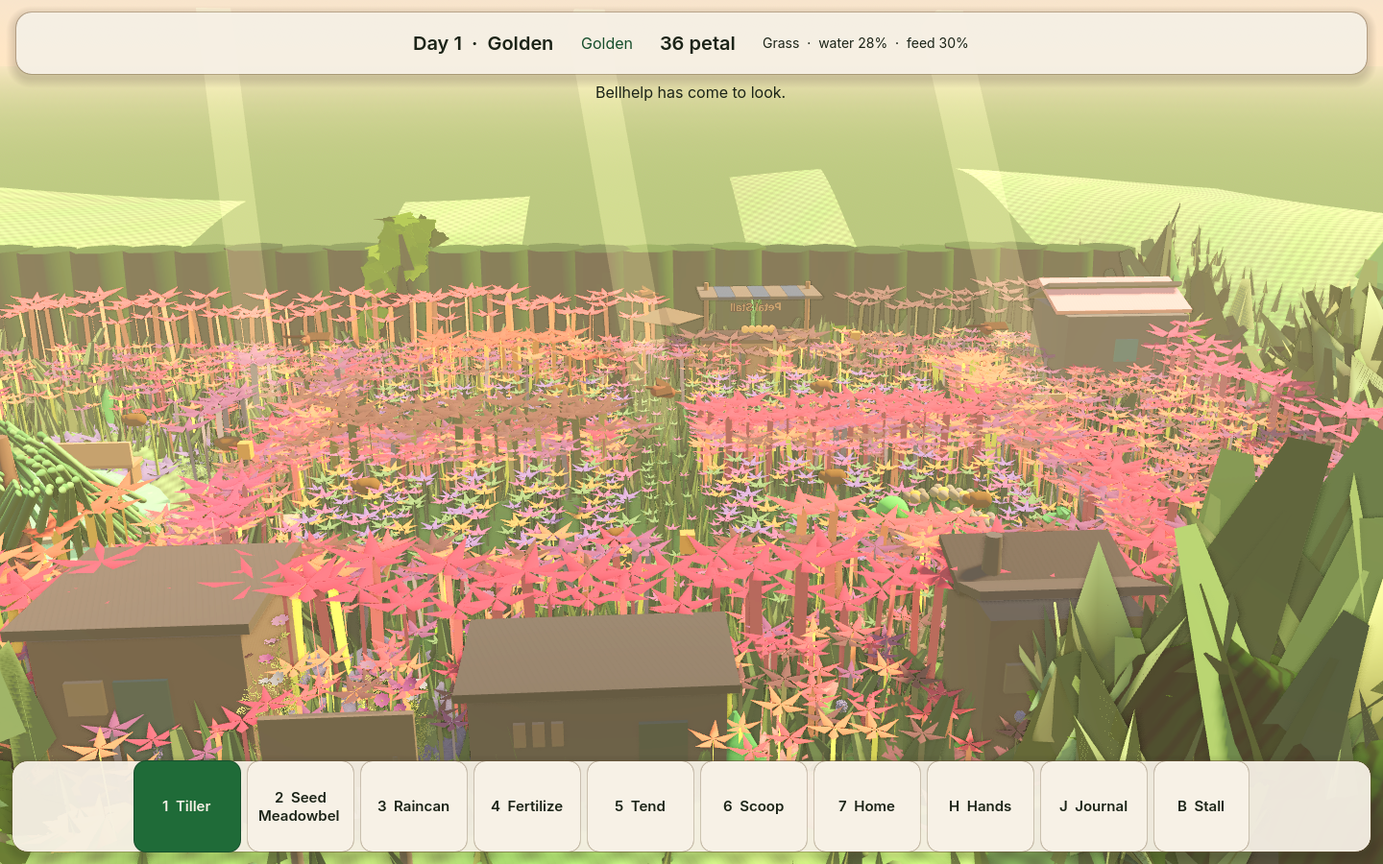
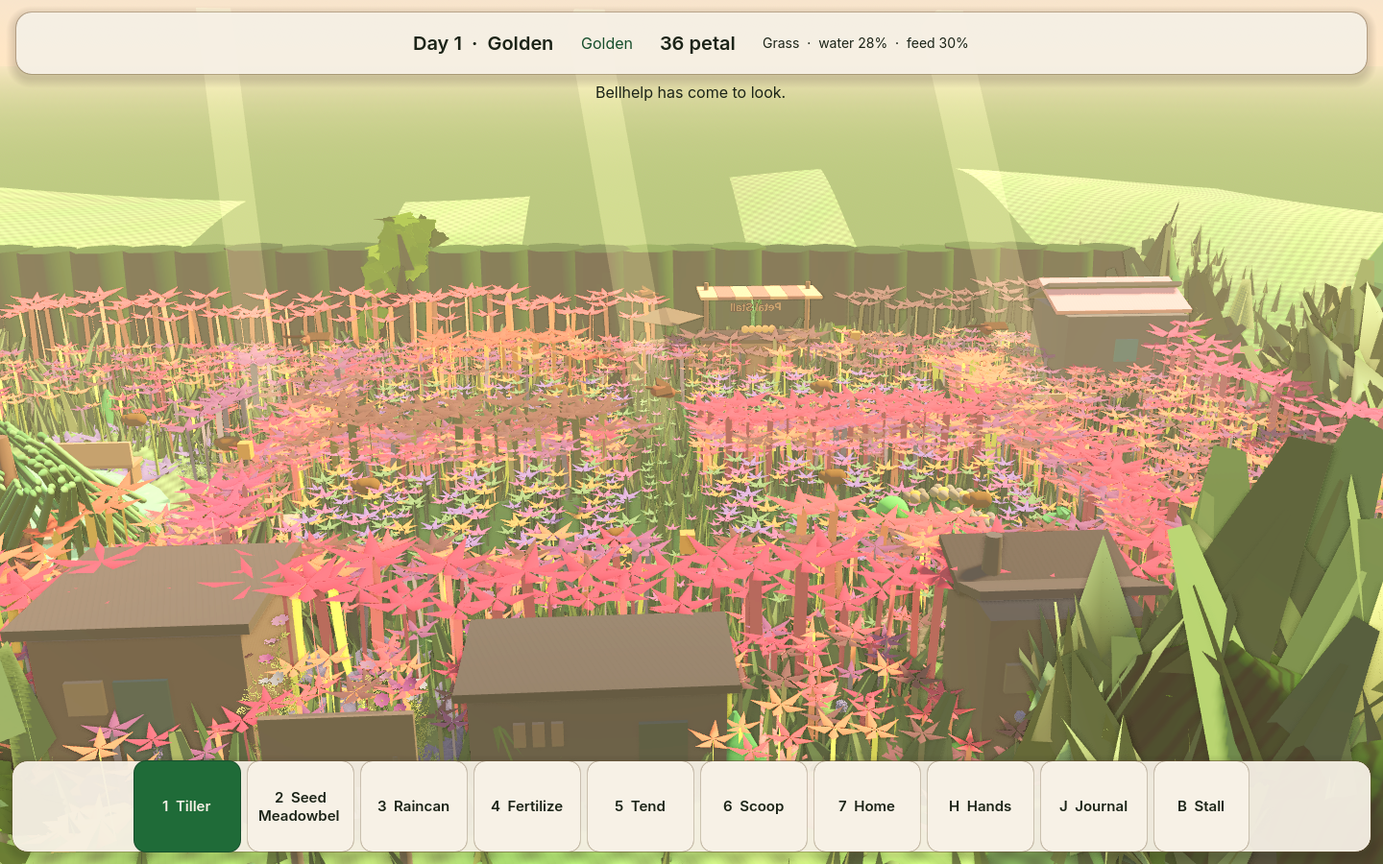
The stall awning warms while the counter is open.
It cools after the stall shuts. Hailo health answered and
POST /v1/decide returned 502, so this was not a choice
from that service.

diff --git a/docs/VISUAL_GAP.md b/docs/VISUAL_GAP.md
@@ -2,11 +2,11 @@
 
 Compared on 2026-09-23. The scene `tools/run.sh` launches is Hedge Hollow. Shots: `docs/screenshots/wave1_overview.png`, `wave1_jelly.png`, `wave1_lumen.png`. Targets: `docs/reference/petalwild_target_garden_01.png` and `petalwild_target_garden_02.png`.
 
-The north backdrop trees are shorter than the hedge. Crest leaf cards are 0.4 of their old size, and the far wall keeps one 2.5 m tuft in four. A row of dark shrubs stands just behind that wall. The east end is taller so its lip meets the hedge line. Light-green pixels in the upper opening band (screen y 265–320, x 40–1400) fell from 53% to 24%, and in the lower band (y 290–360, x 80–1200) from 36% to 13%. On the east lip (y 252–272, x 40–300) mean luminance fell from 200 to 162. The hill (y 200–245) did not change. The stall still sits in front of the middle of the wall. The bright blue band in that opening was the awning cloth, not a hole in the hedge. That stripe is darker now and reads about (171, 171, 173). A sky-blue detector on the overview (blue above 200, ahead of red by 20 and of green by 10) is 0. The shrub row behind the wall was lifting to pale green under the sun. The same light-green check (green ahead of red by 15 and of blue by 20, green above 140) now covers 1.2% of the upper band, down from 3.5% on the previous shot. The crest leaf cards and the far trees were the pale pixels in the side openings. The upper hill (screen y 200–230) stayed at about (213, 224, 148). The ground sky below the horizon is green, so a hole in the hill reads as olive rather than pale sky. Bellhelp’s close-up shows five pointed lobes, five gap tips past them, a wide short rank inside that ring, a darker band, and a wider flared whorl. The dark throat stays. The wide skirt of spheres is gone. The bench and planter use a dark multiply on the prop texture, and bright plant-atlas texels are capped. The three lantern glasses are amber instead of pure white. The pink disk by the south-west rail, the untilled grass-plot tops, the meadowbell petals, the mauve bed, the resident hands, the light flagstones, the path dirt, and the loose stones are darkened so they stay under the sun. Eight bees drift over the beds. Four birds cross the garden by day and perch at dusk and in the rain. A planted meadowbell is three bells on a leaf pad, and every crop sits in a ring of eight leaves. Pure white on this overview is 0. On the previous shot the upper-band light-green check was 1.17% and the hill mean was (212.9, 224.4, 147.6). The hedge tea house stands in the lower left of the home shot. On that shot the same check was 1.30% (969 pixels) and the hill mean was (212.0, 223.6, 146.4). The research hut stands in the lower middle of that shot, where the check was 1.17% (874 pixels) and the hill mean was (212.0, 223.6, 146.4). The media foundry stands in the lower middle of that shot, where the check was 1.15% (862 pixels) and the hill mean was (212.0, 223.6, 146.4). The town hall board now stands in the south gate. On the town-hall shot the check was 1.29% (968 pixels) and the hill mean was (212.0, 223.6, 146.4). On the six-bloom shot the check was 1.54% (1155 pixels) and the hill mean was (212.0, 223.7, 146.5). Empty untilled beds now carry nine dark leaf discs and eight short flowers, and a tilled or planted bed clears them. On the leaf-cover shot the check was 1.60% (1197 pixels) and the hill mean was (212.1, 223.8, 146.5). Neighboring empty cells now share an overlapping dark lid, so the brown seam inside a plot closes. On the joined-lid shot the check was 1.61% (1208 pixels) and the hill mean was (212.1, 223.8, 146.5). A planted cell now keeps that dark lid, so the crop sits in the meadow instead of an inset square. On the planted-lid shot the check was 1.54% (1149 pixels) and the hill mean was (212.1, 223.7, 146.5). The north and south plots now meet across the lawn, and the north-south path stays open. On the bridge shot the check was 1.57% (1176 pixels) and the hill mean was (212.2, 223.8, 146.6). Flowers now sit on both lips of the north-south path, and the path center stays open. On the path-lip shot the check was 1.61% (1204 pixels) and the hill mean was (212.1, 223.8, 146.5). Flowers now spill past the outer edges of the four beds, and the path-center pixels are unchanged. On the bed-edge shot the check was 1.45% (1083 pixels) and the hill mean was (212.2, 223.9, 146.6). The north-south track is narrower, its shoulders are meadow, and the center stays stone. On the narrow-track shot the check was 1.46% (1091 pixels) and the hill mean was (212.2, 223.9, 146.6). The south and north tracks are narrower too, with flowers on their lips. On the track-lip shot the check was 1.45% (1083 pixels) and the hill mean was (212.2, 223.9, 146.6). The wooden frames and the inner hedge around the four beds are gone. The parish hedge stays. On the open-bed shot the check was 1.26% (940 pixels) and the hill mean was (212.0, 223.6, 146.4). On the stepping-stone shot the check was 1.52% (1136 pixels) and the hill mean was (212.0, 223.7, 146.5). On the smaller-stone shot the check was 1.16% (870 pixels) and the hill mean was (212.0, 223.6, 146.4). On the open-stone shot the check was 1.28% (955 pixels) and the hill mean was (212.2, 223.9, 146.6). On the flower-track shot the check was 1.53% (1148 pixels) and the hill mean was (212.2, 223.9, 146.6). On the track-grass shot the check was 1.21% (903 pixels) and the hill mean was (212.0, 223.6, 146.4). On the worn-walk shot the ledger wrote 1.56% (1166 pixels) and the hill mean (212.1, 223.7, 146.5). The same light-green check on that file is 3.72% (2780 of 74800). Empty meadow cells carry a fuller clump: larger leaves, larger blooms, and four more flowers in the gaps. Tilling one empty cell clears twenty-one instances. On that shot the check was 3.70% (2766 of 74800) and the hill mean was (212.1, 223.7, 146.5). A planted cell now keeps eight flowers on its rim, and the stem stays clear. Opening that cell into meadow adds the other thirteen. The worn centers stay open. On that shot the check was 3.55% (2657 of 74800) and the hill mean was (212.0, 223.7, 146.4). On that shot the check was 3.80% (2841 of 74800) and the hill mean was (212.1, 223.7, 146.5). On that shot the check was 3.82% (2855 of 74800) and the hill mean was (212.1, 223.8, 146.5). The north apron above the beds carries a tighter bloom grid. The worn walks, the stall spur, the rooms, and the pond stay open. On that shot the check was 3.80% (2844). Against the file before it the band gained 82 pixels and lost 93. The hill mean was (212.1, 223.8, 146.5). 6.62% of the pixels below the horizon changed, and 0.49% above y 320. The apron band (screen y 350–400) changed 17%. The bridge strips between the north and south beds carry a tighter bloom grid. The worn center between them stays open. On that shot the check was 3.78% (2831). Against the file before it the band gained 41 pixels and lost 54. The hill mean was (212.2, 223.8, 146.6). 4.59% of the pixels below the horizon changed, and 0.27% above y 320. The bridge band (screen y 486–525, x 343–1037) changed 6%. The lawn just inside the west hedge now carries a tighter bloom grid. The hedge wall stays. On this shot the check is 3.81% (2849). Against that file the band gained 66 pixels and lost 48. The hill mean is (212.1, 223.8, 146.5). 4.73% of the pixels below the horizon changed, and 0.32% above y 320. The west band (screen y 450–700, x 1260–1440) changed 9%, and rose pixels there went from 2147 to 2749. After dusk the three path lanterns brighten. On the night shot the pond lamp moved from (199, 157, 108) to (254, 197, 114). The afternoon shot stays as it is. The north apron continues east of the beds. The worn walks stay open. On this shot the check is 3.75% (2802 of 74800). Against that file the band gained 163 pixels and lost 210. The hill mean is (212.2, 223.9, 146.6). 28.18% of the pixels below the horizon changed, and 1.78% above y 320. The east apron band (screen y 370–450, x 40–560) changed 43.6%, and rose pixels there went from 27759 to 28986. The south lawn in front of the rooms carries a tighter bloom grid. The worn walks and the south hedge stay open. On this shot the check is 3.65% (2733 of 74800). Against that file the band gained 165 pixels and lost 234. The hill mean is (212.2, 223.9, 146.6). 29.84% of the pixels below the horizon changed, and 1.77% above y 320. The south band (screen y 740–860, x 100–900) changed 21.6%, and rose pixels there went from 8225 to 11752. Pure white is 0. The sky-blue detector is 0. The stall lamp brightens while the stall is open and dims after it shuts. The afternoon home shot stays as it is. On the stall close-up the frame mean moved from (135.4, 118.1, 81.9) to (144.7, 121.5, 86.0). After dusk the tea house window, the hut window, and the shed's south pane glow. On the night shot those panes read (254, 196, 111), (251, 190, 104), and (245, 201, 143). By day the tea and hut windows stay dark. The shed's south pane is in the afternoon shot. On this shot the check is 3.75% (2802 of 74800). Against that file the band gained and lost within the sway of the hedge. The hill mean is (212.2, 223.9, 146.6). Pure white is 0. The sky-blue detector is 0.
+The north backdrop trees are shorter than the hedge. Crest leaf cards are 0.4 of their old size, and the far wall keeps one 2.5 m tuft in four. A row of dark shrubs stands just behind that wall. The east end is taller so its lip meets the hedge line. Light-green pixels in the upper opening band (screen y 265–320, x 40–1400) fell from 53% to 24%, and in the lower band (y 290–360, x 80–1200) from 36% to 13%. On the east lip (y 252–272, x 40–300) mean luminance fell from 200 to 162. The hill (y 200–245) did not change. The stall still sits in front of the middle of the wall. The bright blue band in that opening was the awning cloth, not a hole in the hedge. That stripe is darker now and reads about (171, 171, 173). A sky-blue detector on the overview (blue above 200, ahead of red by 20 and of green by 10) is 0. The shrub row behind the wall was lifting to pale green under the sun. The same light-green check (green ahead of red by 15 and of blue by 20, green above 140) now covers 1.2% of the upper band, down from 3.5% on the previous shot. The crest leaf cards and the far trees were the pale pixels in the side openings. The upper hill (screen y 200–230) stayed at about (213, 224, 148). The ground sky below the horizon is green, so a hole in the hill reads as olive rather than pale sky. Bellhelp’s close-up shows five pointed lobes, five gap tips past them, a wide short rank inside that ring, a darker band, and a wider flared whorl. The dark throat stays. The wide skirt of spheres is gone. The bench and planter use a dark multiply on the prop texture, and bright plant-atlas texels are capped. The three lantern glasses are amber instead of pure white. The pink disk by the south-west rail, the untilled grass-plot tops, the meadowbell petals, the mauve bed, the resident hands, the light flagstones, the path dirt, and the loose stones are darkened so they stay under the sun. Eight bees drift over the beds. Four birds cross the garden by day and perch at dusk and in the rain. A planted meadowbell is three bells on a leaf pad, and every crop sits in a ring of eight leaves. Pure white on this overview is 0. On the previous shot the upper-band light-green check was 1.17% and the hill mean was (212.9, 224.4, 147.6). The hedge tea house stands in the lower left of the home shot. On that shot the same check was 1.30% (969 pixels) and the hill mean was (212.0, 223.6, 146.4). The research hut stands in the lower middle of that shot, where the check was 1.17% (874 pixels) and the hill mean was (212.0, 223.6, 146.4). The media foundry stands in the lower middle of that shot, where the check was 1.15% (862 pixels) and the hill mean was (212.0, 223.6, 146.4). The town hall board now stands in the south gate. On the town-hall shot the check was 1.29% (968 pixels) and the hill mean was (212.0, 223.6, 146.4). On the six-bloom shot the check was 1.54% (1155 pixels) and the hill mean was (212.0, 223.7, 146.5). Empty untilled beds now carry nine dark leaf discs and eight short flowers, and a tilled or planted bed clears them. On the leaf-cover shot the check was 1.60% (1197 pixels) and the hill mean was (212.1, 223.8, 146.5). Neighboring empty cells now share an overlapping dark lid, so the brown seam inside a plot closes. On the joined-lid shot the check was 1.61% (1208 pixels) and the hill mean was (212.1, 223.8, 146.5). A planted cell now keeps that dark lid, so the crop sits in the meadow instead of an inset square. On the planted-lid shot the check was 1.54% (1149 pixels) and the hill mean was (212.1, 223.7, 146.5). The north and south plots now meet across the lawn, and the north-south path stays open. On the bridge shot the check was 1.57% (1176 pixels) and the hill mean was (212.2, 223.8, 146.6). Flowers now sit on both lips of the north-south path, and the path center stays open. On the path-lip shot the check was 1.61% (1204 pixels) and the hill mean was (212.1, 223.8, 146.5). Flowers now spill past the outer edges of the four beds, and the path-center pixels are unchanged. On the bed-edge shot the check was 1.45% (1083 pixels) and the hill mean was (212.2, 223.9, 146.6). The north-south track is narrower, its shoulders are meadow, and the center stays stone. On the narrow-track shot the check was 1.46% (1091 pixels) and the hill mean was (212.2, 223.9, 146.6). The south and north tracks are narrower too, with flowers on their lips. On the track-lip shot the check was 1.45% (1083 pixels) and the hill mean was (212.2, 223.9, 146.6). The wooden frames and the inner hedge around the four beds are gone. The parish hedge stays. On the open-bed shot the check was 1.26% (940 pixels) and the hill mean was (212.0, 223.6, 146.4). On the stepping-stone shot the check was 1.52% (1136 pixels) and the hill mean was (212.0, 223.7, 146.5). On the smaller-stone shot the check was 1.16% (870 pixels) and the hill mean was (212.0, 223.6, 146.4). On the open-stone shot the check was 1.28% (955 pixels) and the hill mean was (212.2, 223.9, 146.6). On the flower-track shot the check was 1.53% (1148 pixels) and the hill mean was (212.2, 223.9, 146.6). On the track-grass shot the check was 1.21% (903 pixels) and the hill mean was (212.0, 223.6, 146.4). On the worn-walk shot the ledger wrote 1.56% (1166 pixels) and the hill mean (212.1, 223.7, 146.5). The same light-green check on that file is 3.72% (2780 of 74800). Empty meadow cells carry a fuller clump: larger leaves, larger blooms, and four more flowers in the gaps. Tilling one empty cell clears twenty-one instances. On that shot the check was 3.70% (2766 of 74800) and the hill mean was (212.1, 223.7, 146.5). A planted cell now keeps eight flowers on its rim, and the stem stays clear. Opening that cell into meadow adds the other thirteen. The worn centers stay open. On that shot the check was 3.55% (2657 of 74800) and the hill mean was (212.0, 223.7, 146.4). On that shot the check was 3.80% (2841 of 74800) and the hill mean was (212.1, 223.7, 146.5). On that shot the check was 3.82% (2855 of 74800) and the hill mean was (212.1, 223.8, 146.5). The north apron above the beds carries a tighter bloom grid. The worn walks, the stall spur, the rooms, and the pond stay open. On that shot the check was 3.80% (2844). Against the file before it the band gained 82 pixels and lost 93. The hill mean was (212.1, 223.8, 146.5). 6.62% of the pixels below the horizon changed, and 0.49% above y 320. The apron band (screen y 350–400) changed 17%. The bridge strips between the north and south beds carry a tighter bloom grid. The worn center between them stays open. On that shot the check was 3.78% (2831). Against the file before it the band gained 41 pixels and lost 54. The hill mean was (212.2, 223.8, 146.6). 4.59% of the pixels below the horizon changed, and 0.27% above y 320. The bridge band (screen y 486–525, x 343–1037) changed 6%. The lawn just inside the west hedge now carries a tighter bloom grid. The hedge wall stays. On this shot the check is 3.81% (2849). Against that file the band gained 66 pixels and lost 48. The hill mean is (212.1, 223.8, 146.5). 4.73% of the pixels below the horizon changed, and 0.32% above y 320. The west band (screen y 450–700, x 1260–1440) changed 9%, and rose pixels there went from 2147 to 2749. After dusk the three path lanterns brighten. On the night shot the pond lamp moved from (199, 157, 108) to (254, 197, 114). The afternoon shot stays as it is. The north apron continues east of the beds. The worn walks stay open. On this shot the check is 3.75% (2802 of 74800). Against that file the band gained 163 pixels and lost 210. The hill mean is (212.2, 223.9, 146.6). 28.18% of the pixels below the horizon changed, and 1.78% above y 320. The east apron band (screen y 370–450, x 40–560) changed 43.6%, and rose pixels there went from 27759 to 28986. The south lawn in front of the rooms carries a tighter bloom grid. The worn walks and the south hedge stay open. On this shot the check is 3.65% (2733 of 74800). Against that file the band gained 165 pixels and lost 234. The hill mean is (212.2, 223.9, 146.6). 29.84% of the pixels below the horizon changed, and 1.77% above y 320. The south band (screen y 740–860, x 100–900) changed 21.6%, and rose pixels there went from 8225 to 11752. Pure white is 0. The sky-blue detector is 0. The stall lamp brightens while the stall is open and dims after it shuts. The afternoon home shot stays as it is. On the stall close-up the frame mean moved from (135.4, 118.1, 81.9) to (144.7, 121.5, 86.0). After dusk the tea house window, the hut window, and the shed's south pane glow. On the night shot those panes read (254, 196, 111), (251, 190, 104), and (245, 201, 143). By day the tea and hut windows stay dark. The shed's south pane is in the afternoon shot. The stall awning warms while the stall is open and cools after it shuts. On the afternoon shot a stripe moved from (163, 163, 159) to (254, 193, 154) at screen (819, 306). The night shot stays as it is. On this shot the check is 3.77% (2823 of 74800). Against that file the band gained and lost within the sway of the hedge. The hill mean is (212.2, 223.8, 146.6). Pure white is 0. The sky-blue detector is 0.
 
 ## Three largest gaps
 
-1. **Hedge skyline.** The crest cards and the far trees are darker. On this shot 3.75% of the upper band is still light-green (2802 of 74800 pixels). The previous file, same check, is 2733. Most of that mask sits at screen x 1240–1400 (2323 of 2802). The hill mean is (212.2, 223.9, 146.6). The stall still shows through the middle. The south rooms, the gate board, and the bed blooms sit lower and do not cover that edge. PETAL-05.
+1. **Hedge skyline.** The crest cards and the far trees are darker. On this shot 3.77% of the upper band is still light-green (2823 of 74800 pixels). The previous file, same check, is 2802. Most of that mask sits at screen x 1240–1400 (2335 of 2823). The hill mean is (212.2, 223.8, 146.6). The stall still shows through the middle. The south rooms, the gate board, and the bed blooms sit lower and do not cover that edge. PETAL-05.
 
 2. **Bellhelp.** Ten tips, a short rank inside them, a darker band, and a wider skirt. The dark throat is still the center. PETAL-03.
 

diff --git a/docs/PETALWILD_MASTER_STATE.md b/docs/PETALWILD_MASTER_STATE.md
@@ -68,10 +68,10 @@ The north backdrop trees are shorter than the hedge. Crest leaf cards are 0.4 sc
 
 Three largest gaps still open, against `docs/reference/petalwild_target_garden_01.png` and `petalwild_target_garden_02.png`:
 
-1. **Hedge skyline.** The crest cards and the far trees are darker. On this shot 3.75% of the upper band is still light-green (2802 of 74800 pixels). The previous file, same check, is 2733. Most of that mask sits at screen x 1240–1400 (2323 of 2802). The hill mean is (212.2, 223.9, 146.6). The stall still shows through the middle. The south rooms, the gate board, and the bed blooms sit lower and do not cover that edge. PETAL-05.
+1. **Hedge skyline.** The crest cards and the far trees are darker. On this shot 3.77% of the upper band is still light-green (2823 of 74800 pixels). The previous file, same check, is 2802. Most of that mask sits at screen x 1240–1400 (2335 of 2823). The hill mean is (212.2, 223.8, 146.6). The stall still shows through the middle. The south rooms, the gate board, and the bed blooms sit lower and do not cover that edge. PETAL-05.
 2. **Bellhelp.** Ten tips, a short rank inside them, a darker band, and a wider skirt. The dark throat is still the center. PETAL-03.
 3. **Plot grid.** The wooden frames and the inner hedge around the four beds are gone. The parish hedge stays. Flowers spill past the outer edges of the beds and still line the north-south path. The north-south, south, and north bed tracks no longer carry stones. Meadow, flowers, and the same lawn grass cover them. The stall spur and the pond path stay worn, and flowers line both edges. Empty cells carry a fuller clump. A planted cell keeps eight flowers on its rim, and the stem stays clear. The parish lawn carries the meadow up to the bed edge. The west margin and the north apron carry a tighter bloom grid. The bridge strips between the beds carry a tighter bloom grid. The lawn just inside the west hedge carries a tighter bloom grid. The north apron continues east of the beds. The south lawn in front of the rooms carries a tighter bloom grid. The hedge wall stays. The worn centers, the stall spur, and the center between the strips stay open. The rooms and the pond stay clear. The bridge boxes stay. The plates are one continuous planting. Overview pixels at pure white are 0. The brightest pixel on this overview is (251, 255, 217) at screen (161, 512). PETAL-06.
 
 ## Next integration
 
-Keep this build playable. The next pass stays inside `scenes/main.tscn` (Hedge Hollow). The creature chain through Gushorn can happen in this garden, and two resident Bellhelps raise the species to breeding. The later resident walks to the first, the journal says a pair is in the parish, a breeding pair leaves one young beside them, a thin meadow does not send that young to the hedge while the pair remains, a reload keeps that young, and off-screen they share the first resident's home kit. A resident who is petted until they trust your hands is bonded. By day they walk to the gardener, the journal keeps that trust beside the pair, and a reload keeps the bond. By day a resident on screen walks to a ripe plant they came for and bites when they reach it. That plant has to grow back. Off screen they bite without crossing the garden. A reload keeps them headed for the fruit. A dry crop droops and loses height until the bed is watered. A tired crop stands shorter until the bed is fed, and a dry one still droops. Left dry for six hours, it is gone from the bed, and a reload keeps that clock. A living crop tires its bed. By day Bram feeds the one under that crop's fertility line, thirst still comes first, the pouch is not spent, and a reload keeps that walk. He leaves a tired bramble when a settled Grapling is resting on it and feeds the next tired bed. If that cane is the only one, he leaves it. The bed readout says when a crop needs water, when it needs feed, when fruit is returning, when a cane is kept, and when the bells are filling, and when a reed is kept. A dry bed says thirst before the cane. A reload keeps that line. A visitor on the cane does not stop him. A visitor whose plants are gone walks to the gate, the journal says they are heading for the hedge, Nessa writes the departure into the parish book, and a reload keeps that walk. When two visitors leave on the same tick she writes both names. If one turns back, that name leaves the page and she still writes the other. If they all turn back, the page stays blank. A reload keeps them in the garden. On an even afternoon it rains from 11:00 through 16:30, Nessa walks the tea house, the hut, and the foundry, Bram walks the shed and the stall, Lumen paces the awning, nothing is filed, the beds take the water, and a reload keeps that shower and the round. A resident with a home kit walks to it and stays awake. With no kit they stay out in the rain. At night, with no kit, they sleep under the stall awning and go back to the flower in the morning. A pair still walks together. A kit still wins. A visitor walks under the stall awning in the rain and at night, and stays awake. In the morning they go back to the flower. A departure still goes to the gate, and a dry afternoon leaves them on the flower. Half an hour of rain carries seed from a ripe plant into the next empty tilled bed. A dry hour does not, and a reload keeps the seedling. In the mist the beds keep the water they already have. The mist does not water them, and it does not carry seed. An odd afternoon stays golden, including the capture hour. Reedic walks to Bulrush. A visitor keeps that walk. Once it has settled, it walks to a reed, on screen and off it, and a wet reed stays wet. A visitor does not hold the water, and a dry reed still dries. Rain cover, a home kit, and a departure still come first. A bonded Reedic stays in the pond. A reload keeps that reed. The bed readout says the reed is kept. Once that Bulrush settles, company arrives, and when the partner settles the journal says a pair. The later one wades to the first. In the pond a Bulrush and a Reedic sit in the water, and so does a young Bulrush. On the lawn, and under a home kit, they stand on the ground. A bonded Bulrush stays in the pond. A reload keeps that pair, and a home kit at night still wins. At dusk Pegapear walks to the nightlantern, and once it has settled the morning sends it back to the peach. A visitor at dusk walks to the lantern too. A resident bites that lantern at dusk and leaves the peach ripe. In the morning the bite is the peach, and the lantern stays ripe. A visitor does not bite. Night does not bite. Off screen the bite still lands. A reload keeps that bite. A bitten lantern on night-loam grows back. Without that loam it stays short. While it is short, dusk still walks to it, on screen and off. A bitten peach still draws the morning. The bed says a bitten crop is growing back once its water and feed are met. A lantern without night-loam says it needs that soil instead. A harvest leaves the same mark, thirst still comes first, and a ripe bed clears it. Off screen that walk continues. Rain cover, a home kit, and a departure still come first. A reload keeps the hour. Gushorn walks to the night-loam. Without a settled crown, one bed of it thins every four hours, and a nightlantern on that soil stops growing. A settled Gushorn holds the loam. Rain cover, a home kit, and a departure still come first. A reload keeps that clock. When fewer than four beds still hold it, a resident Dusknip lays the night-loam back, including under a nightlantern that had gone thin. A visitor does not. A Gushorn still short of the hedge turns back once that soil returns. A reload keeps the beds. Berrypatch walks to a bitten cane, on screen and off it. Once it has settled there, a wet fed cane ripens again. A visitor does not, and a dry or tired cane stays bitten. Rain cover, a home kit, and a departure still come first. A reload keeps that fruit. Grapling creeps, vine-slow, to a bramble, on screen and off it. Once it has settled and is resting on that cane, the bed stops tiring while the cane is wet. A visitor does not feed it, and a dry cane still tires. Rain cover, a home kit, and a departure still come first. A reload keeps the grapling on that cane. Cirlark and Dusknip walk to Bellhelp. A visitor Cirlark keeps that walk. Once it has settled, it walks to a short meadowbell, on screen and off it, and a wet fed bell fills in. A visitor does not fill it, and a dry or tired bell stays short. Rain cover, a home kit, and a departure still come first. A reload keeps that bell. The bed readout says the bells are filling. A departure is not followed. Rain cover and a home kit still win. A settler stays. A placed home kit is a moss shelter. Off-screen, a resident still bites a ripe plant they came for, and a reload keeps that bite. Grove Park is still not built. The hedge tea house stands on the south lawn. The research hut stands west of it, and the media foundry stands between them. The town hall is a board by the south gate. Meadowbells are a clump of three, and every crop sits in a ring of leaves. The wooden frames and the inner hedge around the four beds are gone. The parish hedge stays. Flowers spill past the outer edges of the beds and still line the north-south path. The north-south, south, and north bed tracks no longer carry stones. Meadow, flowers, and the same lawn grass cover them. The stall spur and the pond path stay worn, and flowers line both edges. The worn centers stay open. Empty meadow cells carry a fuller clump. A planted cell keeps eight flowers on its rim, and the stem stays clear. The worn centers stay open. The lawn just inside the west hedge carries a tighter bloom grid. The north apron continues east of the beds. The south lawn in front of the rooms carries a tighter bloom grid. The hedge wall stays. After dusk the three path lanterns brighten, and the afternoon shot stays as it is. On this shot 3.75% of the upper band is still light green (2802 of 74800 pixels). The previous file is 2733, mostly at screen x 1240–1400, and the stall still shows through the middle. The hill mean is (212.2, 223.9, 146.6). The south band (screen y 740–860, x 100–900) changed 21.6%. The stall lamp brightens while the stall is open and dims after it shuts. After dusk the tea house window, the hut window, and the shed's south pane glow. By day the tea and hut windows stay dark. The south rooms and the town hall board sit in the foreground. Bees sit on the flowers while it rains. Do not paint that hill edge, do not cut the hill, and do not raise the east shrubs. Do not fill Bellhelp’s dark throat. Do not open a side demo. The Kenney/Cara grove in `scripts/presentation/` is not the running scene.
+Keep this build playable. The next pass stays inside `scenes/main.tscn` (Hedge Hollow). The creature chain through Gushorn can happen in this garden, and two resident Bellhelps raise the species to breeding. The later resident walks to the first, the journal says a pair is in the parish, a breeding pair leaves one young beside them, a thin meadow does not send that young to the hedge while the pair remains, a reload keeps that young, and off-screen they share the first resident's home kit. A resident who is petted until they trust your hands is bonded. By day they walk to the gardener, the journal keeps that trust beside the pair, and a reload keeps the bond. By day a resident on screen walks to a ripe plant they came for and bites when they reach it. That plant has to grow back. Off screen they bite without crossing the garden. A reload keeps them headed for the fruit. A dry crop droops and loses height until the bed is watered. A tired crop stands shorter until the bed is fed, and a dry one still droops. Left dry for six hours, it is gone from the bed, and a reload keeps that clock. A living crop tires its bed. By day Bram feeds the one under that crop's fertility line, thirst still comes first, the pouch is not spent, and a reload keeps that walk. He leaves a tired bramble when a settled Grapling is resting on it and feeds the next tired bed. If that cane is the only one, he leaves it. The bed readout says when a crop needs water, when it needs feed, when fruit is returning, when a cane is kept, and when the bells are filling, and when a reed is kept. A dry bed says thirst before the cane. A reload keeps that line. A visitor on the cane does not stop him. A visitor whose plants are gone walks to the gate, the journal says they are heading for the hedge, Nessa writes the departure into the parish book, and a reload keeps that walk. When two visitors leave on the same tick she writes both names. If one turns back, that name leaves the page and she still writes the other. If they all turn back, the page stays blank. A reload keeps them in the garden. On an even afternoon it rains from 11:00 through 16:30, Nessa walks the tea house, the hut, and the foundry, Bram walks the shed and the stall, Lumen paces the awning, nothing is filed, the beds take the water, and a reload keeps that shower and the round. A resident with a home kit walks to it and stays awake. With no kit they stay out in the rain. At night, with no kit, they sleep under the stall awning and go back to the flower in the morning. A pair still walks together. A kit still wins. A visitor walks under the stall awning in the rain and at night, and stays awake. In the morning they go back to the flower. A departure still goes to the gate, and a dry afternoon leaves them on the flower. Half an hour of rain carries seed from a ripe plant into the next empty tilled bed. A dry hour does not, and a reload keeps the seedling. In the mist the beds keep the water they already have. The mist does not water them, and it does not carry seed. An odd afternoon stays golden, including the capture hour. Reedic walks to Bulrush. A visitor keeps that walk. Once it has settled, it walks to a reed, on screen and off it, and a wet reed stays wet. A visitor does not hold the water, and a dry reed still dries. Rain cover, a home kit, and a departure still come first. A bonded Reedic stays in the pond. A reload keeps that reed. The bed readout says the reed is kept. Once that Bulrush settles, company arrives, and when the partner settles the journal says a pair. The later one wades to the first. In the pond a Bulrush and a Reedic sit in the water, and so does a young Bulrush. On the lawn, and under a home kit, they stand on the ground. A bonded Bulrush stays in the pond. A reload keeps that pair, and a home kit at night still wins. At dusk Pegapear walks to the nightlantern, and once it has settled the morning sends it back to the peach. A visitor at dusk walks to the lantern too. A resident bites that lantern at dusk and leaves the peach ripe. In the morning the bite is the peach, and the lantern stays ripe. A visitor does not bite. Night does not bite. Off screen the bite still lands. A reload keeps that bite. A bitten lantern on night-loam grows back. Without that loam it stays short. While it is short, dusk still walks to it, on screen and off. A bitten peach still draws the morning. The bed says a bitten crop is growing back once its water and feed are met. A lantern without night-loam says it needs that soil instead. A harvest leaves the same mark, thirst still comes first, and a ripe bed clears it. Off screen that walk continues. Rain cover, a home kit, and a departure still come first. A reload keeps the hour. Gushorn walks to the night-loam. Without a settled crown, one bed of it thins every four hours, and a nightlantern on that soil stops growing. A settled Gushorn holds the loam. Rain cover, a home kit, and a departure still come first. A reload keeps that clock. When fewer than four beds still hold it, a resident Dusknip lays the night-loam back, including under a nightlantern that had gone thin. A visitor does not. A Gushorn still short of the hedge turns back once that soil returns. A reload keeps the beds. Berrypatch walks to a bitten cane, on screen and off it. Once it has settled there, a wet fed cane ripens again. A visitor does not, and a dry or tired cane stays bitten. Rain cover, a home kit, and a departure still come first. A reload keeps that fruit. Grapling creeps, vine-slow, to a bramble, on screen and off it. Once it has settled and is resting on that cane, the bed stops tiring while the cane is wet. A visitor does not feed it, and a dry cane still tires. Rain cover, a home kit, and a departure still come first. A reload keeps the grapling on that cane. Cirlark and Dusknip walk to Bellhelp. A visitor Cirlark keeps that walk. Once it has settled, it walks to a short meadowbell, on screen and off it, and a wet fed bell fills in. A visitor does not fill it, and a dry or tired bell stays short. Rain cover, a home kit, and a departure still come first. A reload keeps that bell. The bed readout says the bells are filling. A departure is not followed. Rain cover and a home kit still win. A settler stays. A placed home kit is a moss shelter. Off-screen, a resident still bites a ripe plant they came for, and a reload keeps that bite. Grove Park is still not built. The hedge tea house stands on the south lawn. The research hut stands west of it, and the media foundry stands between them. The town hall is a board by the south gate. Meadowbells are a clump of three, and every crop sits in a ring of leaves. The wooden frames and the inner hedge around the four beds are gone. The parish hedge stays. Flowers spill past the outer edges of the beds and still line the north-south path. The north-south, south, and north bed tracks no longer carry stones. Meadow, flowers, and the same lawn grass cover them. The stall spur and the pond path stay worn, and flowers line both edges. The worn centers stay open. Empty meadow cells carry a fuller clump. A planted cell keeps eight flowers on its rim, and the stem stays clear. The worn centers stay open. The lawn just inside the west hedge carries a tighter bloom grid. The north apron continues east of the beds. The south lawn in front of the rooms carries a tighter bloom grid. The hedge wall stays. After dusk the three path lanterns brighten, and the afternoon shot stays as it is. On this shot 3.77% of the upper band is still light green (2823 of 74800 pixels). The previous file is 2802, mostly at screen x 1240–1400, and the stall still shows through the middle. The hill mean is (212.2, 223.8, 146.6). The south band (screen y 740–860, x 100–900) changed 21.6%. The stall lamp brightens while the stall is open and dims after it shuts. After dusk the tea house window, the hut window, and the shed's south pane glow. By day the tea and hut windows stay dark. The stall awning warms while the stall is open and cools after it shuts. The south rooms and the town hall board sit in the foreground. Bees sit on the flowers while it rains. Do not paint that hill edge, do not cut the hill, and do not raise the east shrubs. Do not fill Bellhelp’s dark throat. Do not open a side demo. The Kenney/Cara grove in `scripts/presentation/` is not the running scene.
